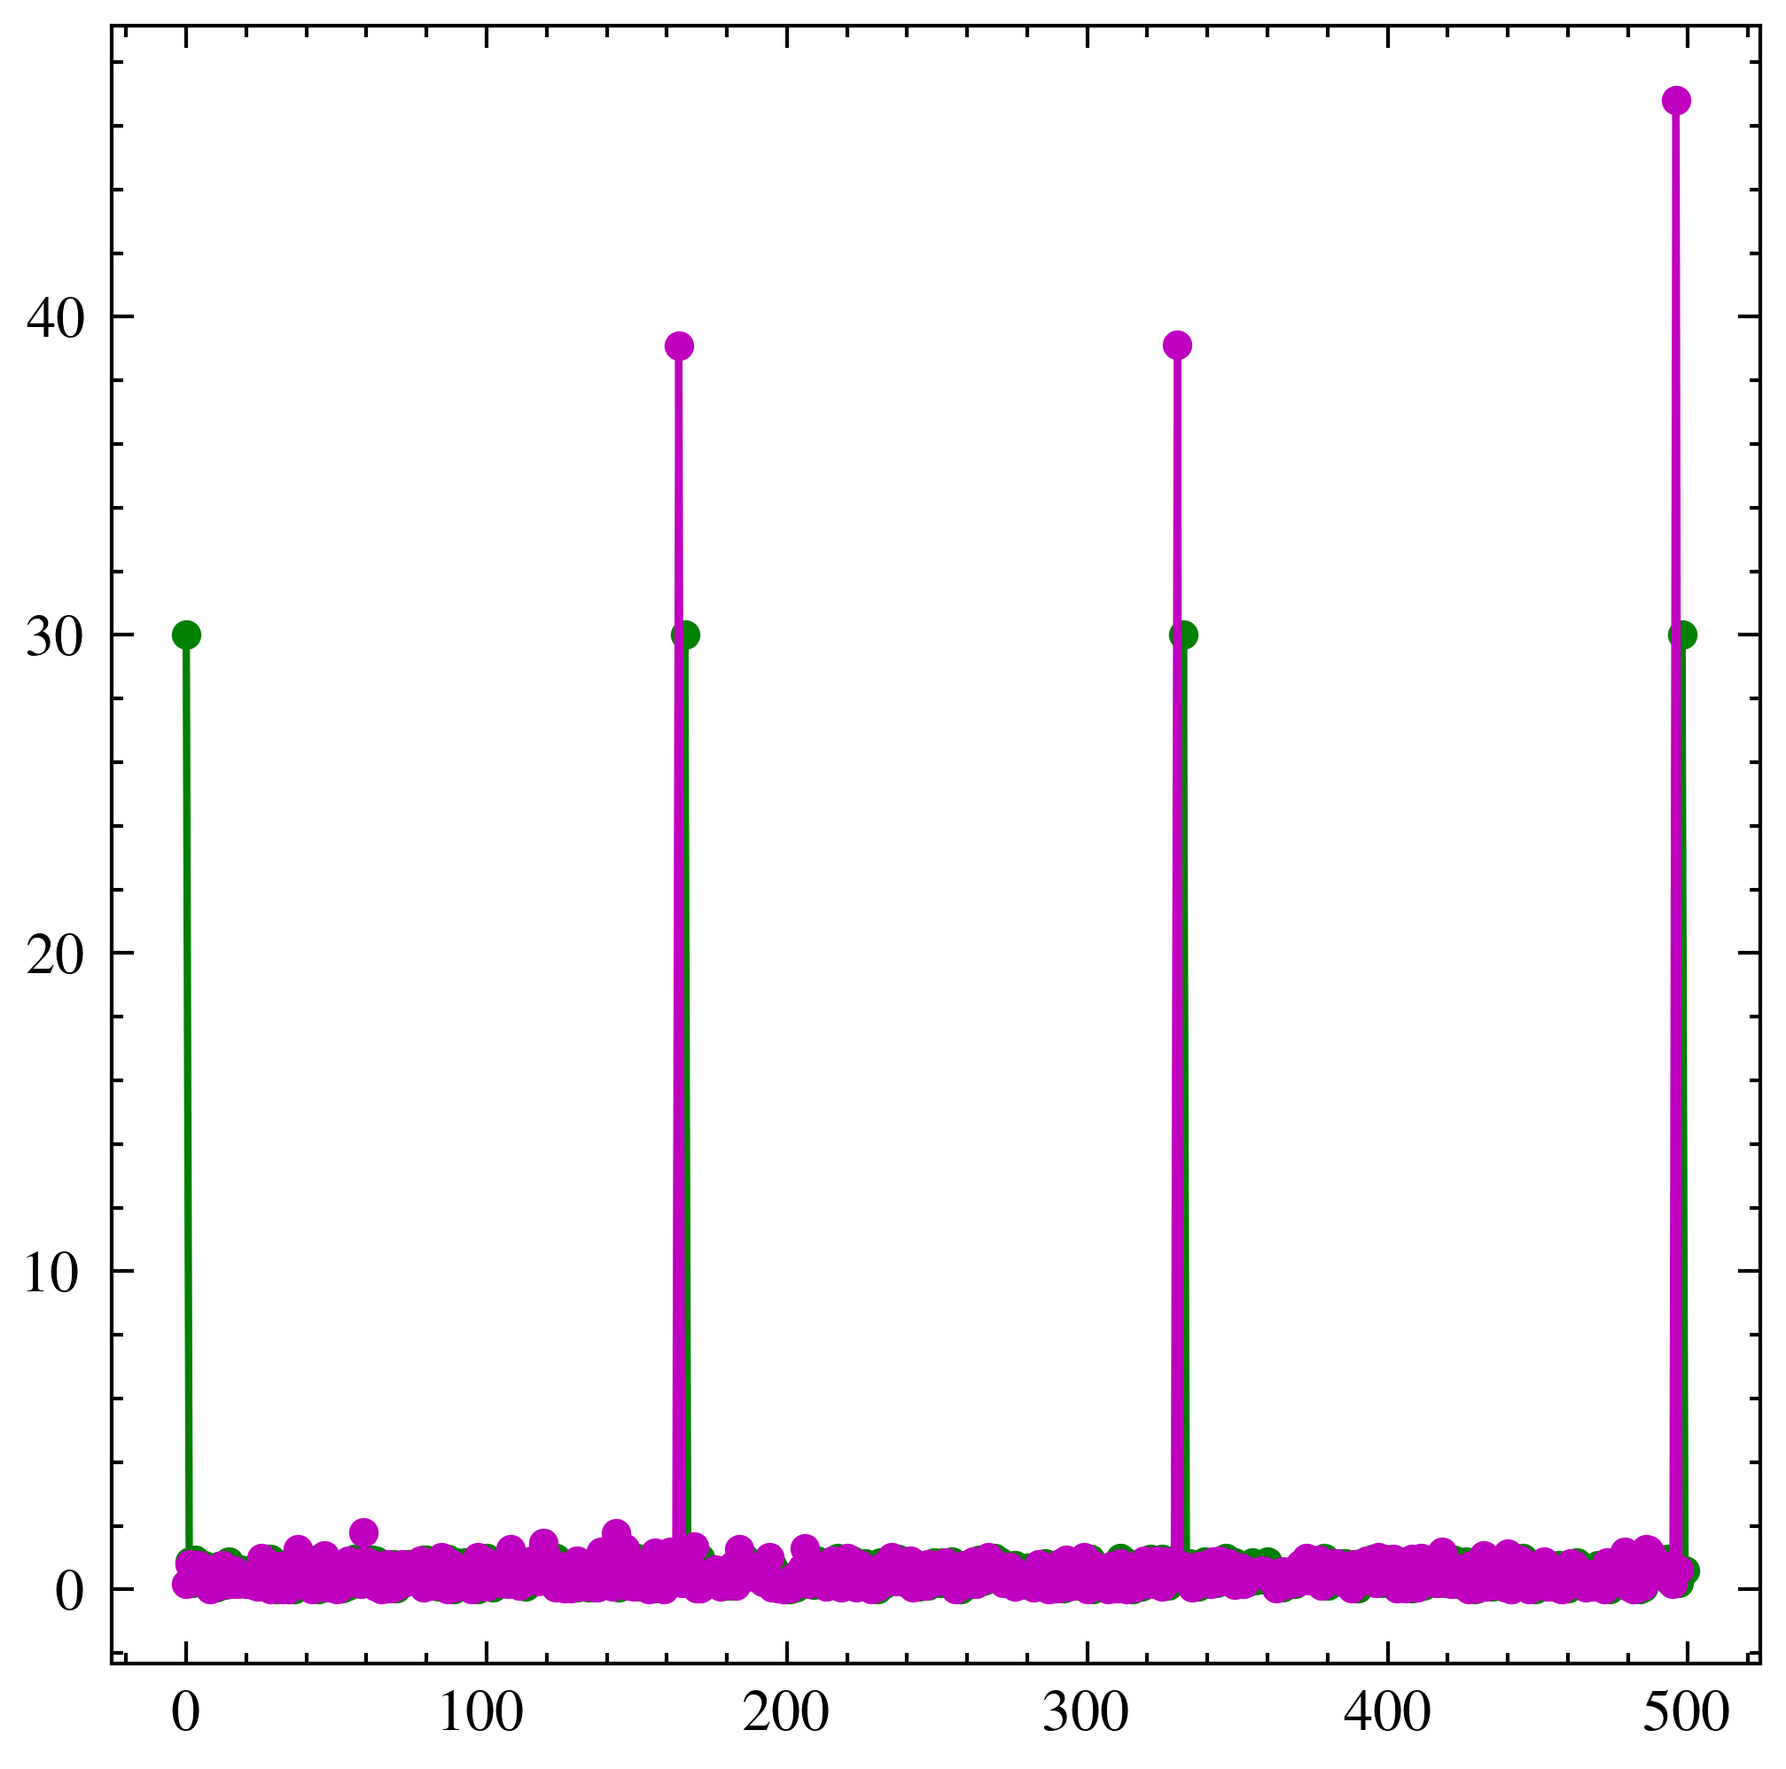
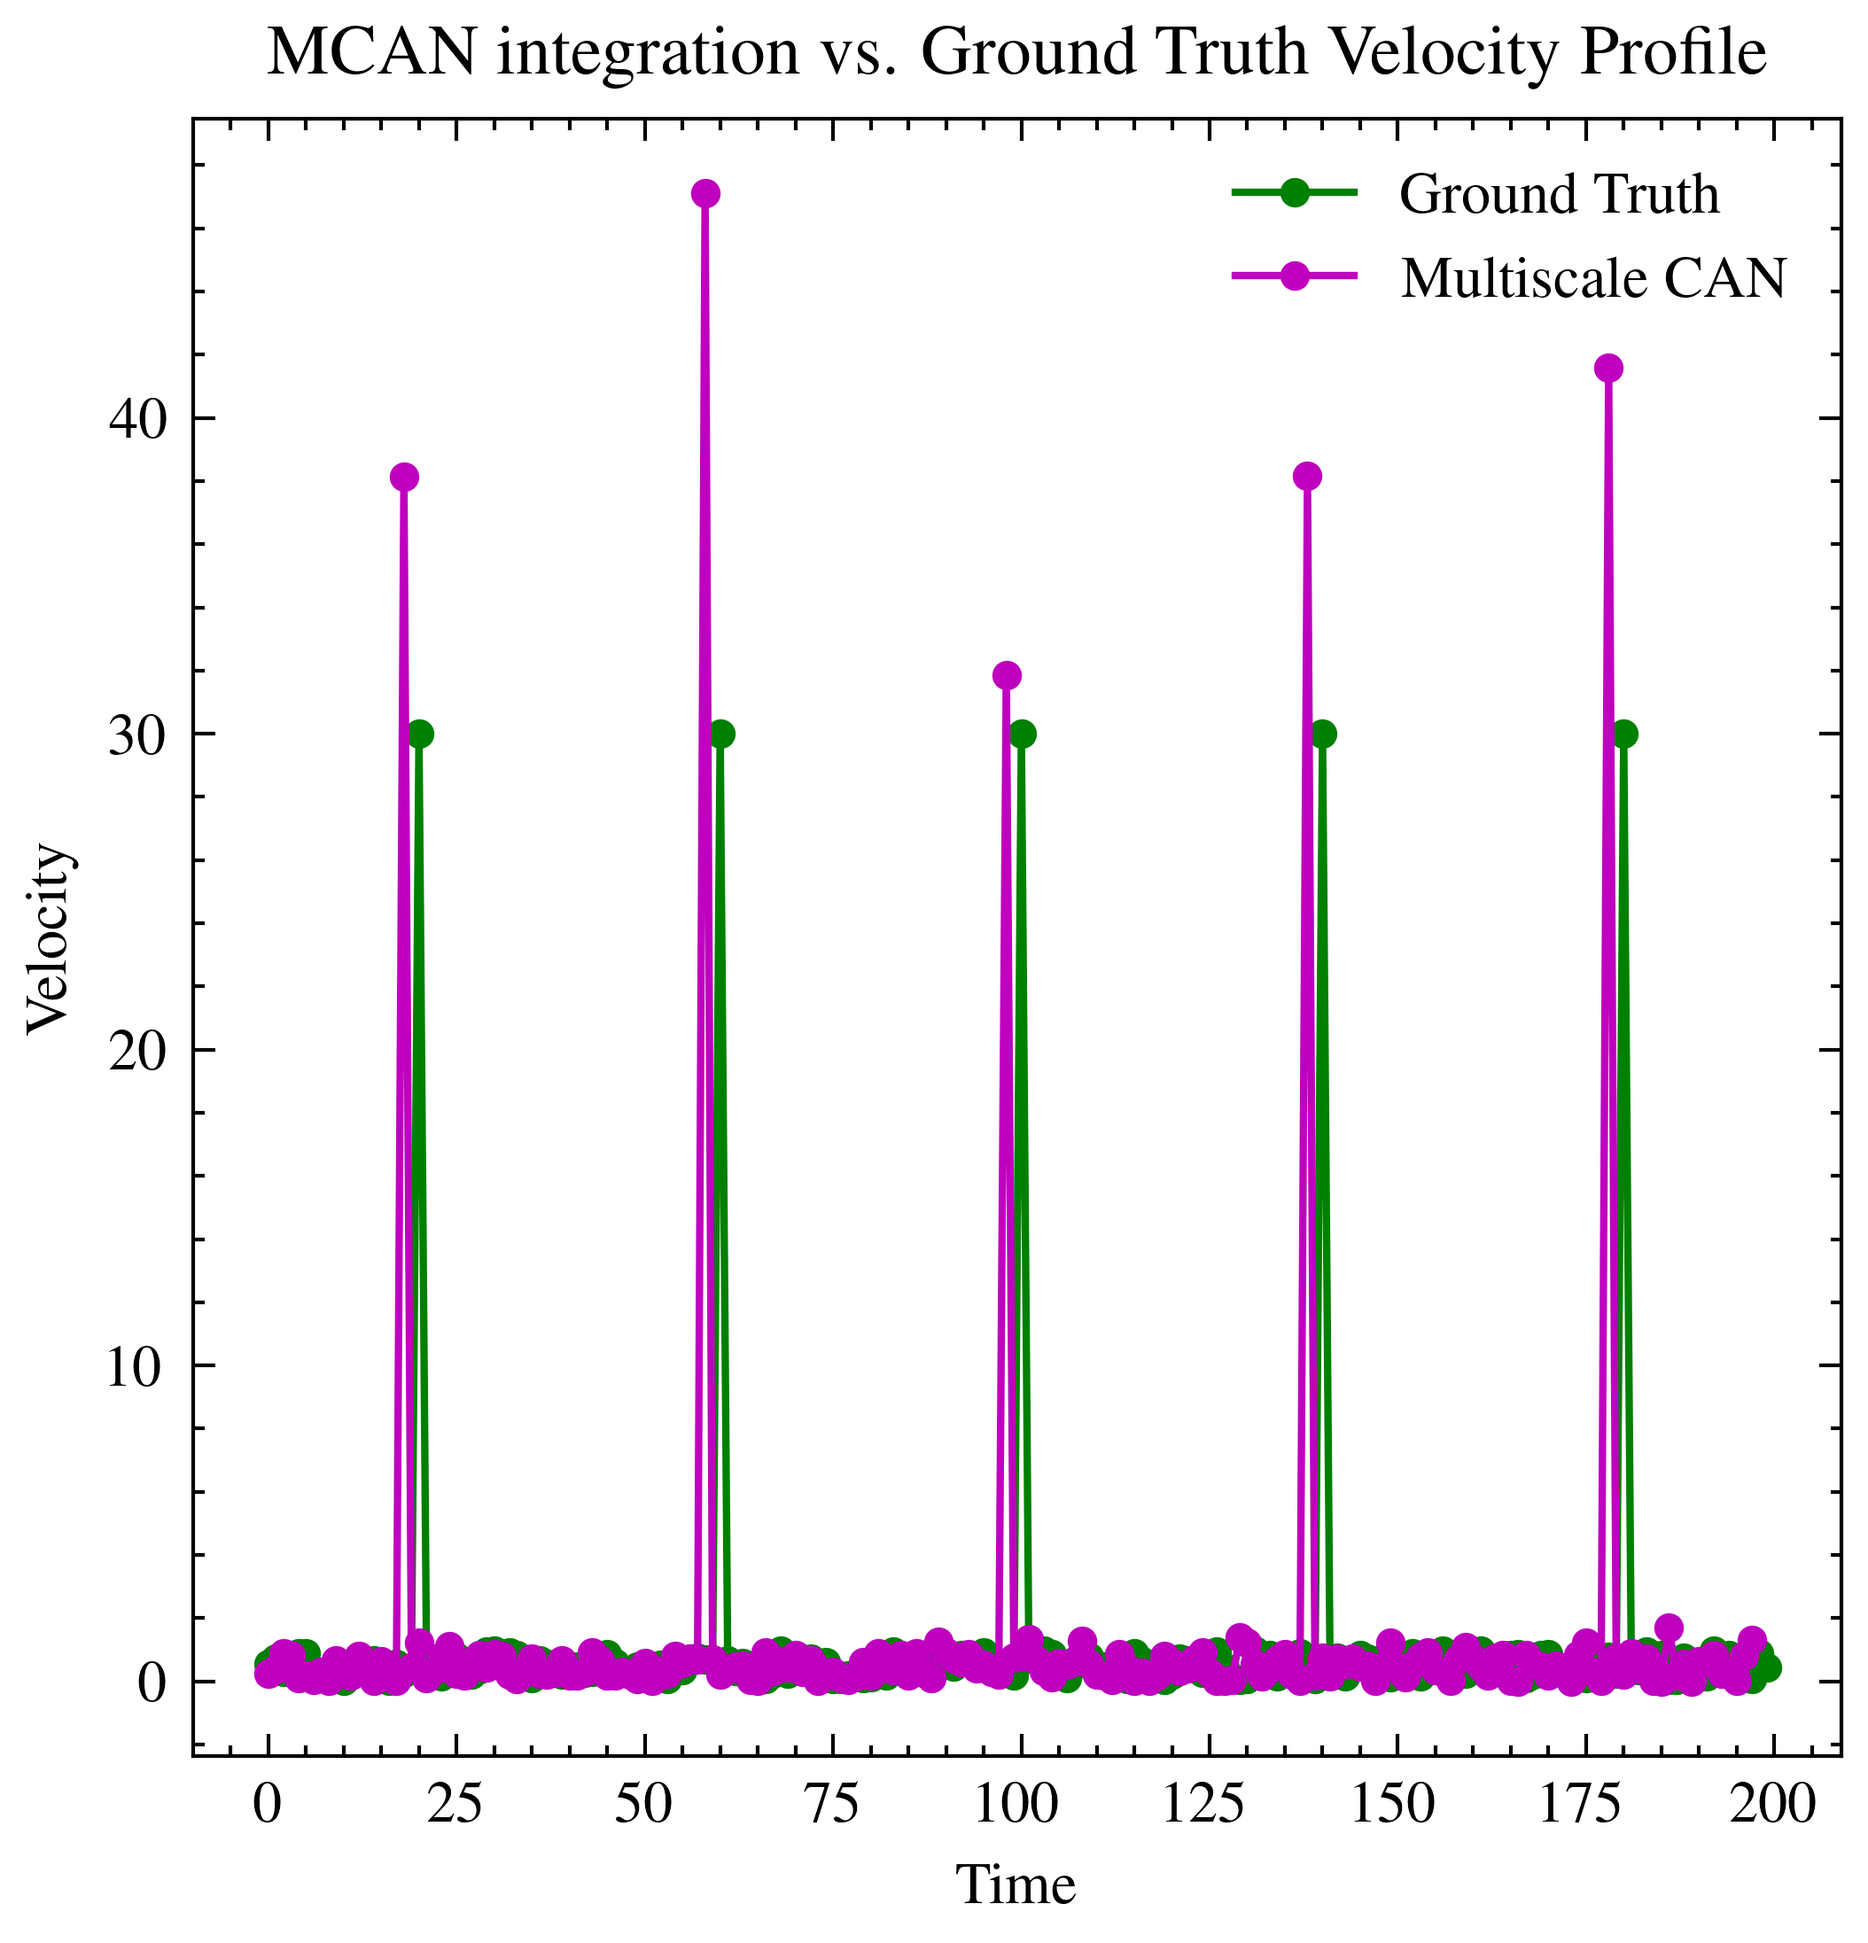
some testing

diff --git a/Scripts/SelectiveMultiScalewithWraparound2D.py b/Scripts/SelectiveMultiScalewithWraparound2D.py
@@ -26,6 +26,20 @@ plt.style.use(['science','ieee'])
 # plt.style.use(['science','no-latex'])
 
 
+def positionToVel2D(data_x,data_y):
+    vel,angVel=[],[]
+    for i in range(0,len(data_x)):
+        x0=data_x[i-2]
+        x1=data_x[i-1]
+        x2=data_x[i]
+        y0=data_y[i-2]
+        y1=data_y[i-1]
+        y2=data_y[i]
+
+        vel.append(np.sqrt(((x2-x1)**2)+((y2-y1)**2))) #translation
+        angVel.append((math.atan2(y2-y1,x2-x1)) - (math.atan2(y1-y0,x1-x0))) 
+    
+    return np.array(vel),np.array(angVel)
 
 def pathIntegration(speed, angVel):
     q=[0,0,0]
@@ -64,11 +78,14 @@ def scale_selection(input,scales, swap_val=1):
         if input<=scales[0]*swap_val:
             scale_idx=0
 
-        for i in range(len(scales)-2):
+        for i in range(len(scales)-1):
             if input>scales[i]*swap_val and input<=scales[i+1]*swap_val:
                 scale_idx=i+1
         
-        if input>scales[-2]*swap_val:
+        # if input>scales[-2]*swap_val:
+        #     scale_idx=len(scales)-1
+        
+        if input>scales[-1]*swap_val:
             scale_idx=len(scales)-1
 
     return scale_idx
@@ -77,7 +94,7 @@ def headDirection(theta_weights, angVel, init_angle):
     global theata_called_iters
     N=360
     # num_links,excite,activity_mag,inhibit_scale, iterations=16, 17, 2.16818183,  0.0281834545, 2
-    num_links,excite,activity_mag,inhibit_scale, iterations=16, 17, 2.16818183,  0.0381834545, 2
+    # num_links,excite,activity_mag,inhibit_scale, iterations=16, 17, 2.16818183,  0.0381834545, 2
     num_links,excite,activity_mag,inhibit_scale, iterations=13,4,2.70983783e+00,4.84668851e-02,2
     net=attractorNetwork(N,num_links,excite, activity_mag,inhibit_scale)
     
@@ -135,7 +152,7 @@ def headDirectionAndPlaceNoWrapNet(scales, vel, angVel,savePath, printing=False,
      
     else:
         num_links,excite,activity_mag,inhibit_scale, iterations, wrap_iterations=10,2,1.10262708e-01,6.51431074e-04,3,2 #with decimals 200 iters fitness -395 modified
-
+        # num_links,excite,activity_mag,inhibit_scale, iterations, wrap_iterations=11,8,5.09182735e-01,2.78709739e-04,5,2
     network=attractorNetwork2D(N,N,num_links,excite, activity_mag,inhibit_scale)
 
     
@@ -170,20 +187,6 @@ def headDirectionAndPlaceNoWrapNet(scales, vel, angVel,savePath, printing=False,
         x_integ.append(q[0])
         y_integ.append(q[1])
 
-        '''Dynamic network tuning'''
-        # swap_val=5
-        # if vel[i]<=scales[0]*swap_val:
-        #     num_links,excite,activity_mag,inhibit_scale, iterations, wrap_iterations=3,5,0.015,0.000865888565,1,1 #0.25 scale input, np.random.uniform(0,1,1) error
-        #     network=attractorNetwork2D(N,N,num_links,excite, activity_mag,inhibit_scale)
-        # elif vel[i]>scales[0]*swap_val and vel[i]<=scales[1]*swap_val:
-        #     num_links,excite,activity_mag,inhibit_scale, iterations, wrap_iterations=3,5,0.04,0.000865888565,1,1 #1 scale input, np.random.uniform(1,2,1) error
-        #     network=attractorNetwork2D(N,N,num_links,excite, activity_mag,inhibit_scale)
-        # elif vel[i]>scales[1]*swap_val and vel[i]<=scales[2]*swap_val:
-        #     num_links,excite,activity_mag,inhibit_scale, iterations, wrap_iterations=3,5,0.05,0.000665888565,1,1 #4 scale input, np.random.uniform(2,10,1) error
-        #     network=attractorNetwork2D(N,N,num_links,excite, activity_mag,inhibit_scale)
-        # elif vel[i]>scales[2]*swap_val:
-        #     num_links,excite,activity_mag,inhibit_scale, iterations, wrap_iterations=3,5,0.05,0.000565888565,1,1 #16 scale input, np.random.uniform(10,20,1) error
-        #     network=attractorNetwork2D(N,N,num_links,excite, activity_mag,inhibit_scale)   
 
         '''Mutliscale CAN update'''
         N_dir=360
@@ -218,7 +221,7 @@ def headDirectionAndPlaceNoWrapNet(scales, vel, angVel,savePath, printing=False,
     if savePath != None:
         np.save(savePath, np.array([x_grid, y_grid, x_integ, y_integ, x_integ_err, y_integ_err]))
     
-    # print(f'CAN error: {errorTwoCoordinateLists(x_integ,y_integ, x_grid, y_grid)}') 
+    print(f'CAN error: {errorTwoCoordinateLists(x_integ,y_integ, x_grid, y_grid)}') 
         
     
 
@@ -681,10 +684,10 @@ def scaleAblation(scaleRatios,numScales,randomSeedVariation=5, run=False, plotti
     # pathfile=f'./Results/RandomData/Ablation_Experiment_Output_SmallerVelRange/TestingRandomInputs_'
     # plotPath=f'./Results/RandomData/AblationofScales_ErrorsandDurations_SmallerVelRange.png'
 
-    savePath1=f'./Results/RandomData/Ablation_Experiment_Output_FineGrain/AblationOfScalesErrors_smallerRange.npy'
-    savePath2=f'./Results/RandomData/Ablation_Experiment_Output_FineGrain/AblationOfScalesDurations_smallerRange.npy'
-    pathfile=f'./Results/RandomData/Ablation_Experiment_Output_FineGrain/TestingRandomInputs_'
-    plotPath=f'./Results/RandomData/AblationofScales_ErrorsandDurations_FineGrain_SmallerVelRange.png'
+    savePath1=f'./Results/RandomData/Ablation_Experiment_Output_FineGrain/AblationOfScalesErrors_smallerRange2.npy'
+    savePath2=f'./Results/RandomData/Ablation_Experiment_Output_FineGrain/AblationOfScalesDurations_smallerRange2.npy'
+    pathfile=f'./Results/RandomData/Ablation_Experiment_Output_FineGrain/TestingRandomInputs2_'
+    plotPath=f'./Results/RandomData/Ablation_Experiment_Output_FineGrain/AblationofScales_ErrorsandDurations_FineGrain_SmallerVelRange2.png'
 
     if run==True:
         errors=np.zeros((len(scaleRatios),len(numScales)))
@@ -693,13 +696,19 @@ def scaleAblation(scaleRatios,numScales,randomSeedVariation=5, run=False, plotti
             for j,length in enumerate(numScales):
                 test_length=50
                 np.random.seed(randomSeedVariation)
-                vel=np.random.uniform(0,5,test_length) 
+                vel=np.random.uniform(0,2,test_length) 
                 angVel=np.random.uniform(0,np.pi/6,test_length)
                 scales=generatinScales(ratio, length)
                 
-                t=time.time()
-                errors[i,j]=headDirectionAndPlaceNoWrapNet(scales, vel, angVel,None, printing=False, returnTypes='Error')
-                durations[i,j]=(time.time()-t)
+                # t=time.time()
+                # errors[i,j]=headDirectionAndPlaceNoWrapNet(scales, vel, angVel,None, printing=False, returnTypes='Error')
+                # durations[i,j]=(time.time()-t)
+
+                x_integ,y_integ, x_grid, y_grid=headDirectionAndPlaceNoWrapNet(scales, vel, angVel,None, returnTypes='posInteg+CAN')
+                vel_CANoutput,angVel_CANoutput=positionToVel2D(x_grid,y_grid)
+                vel_GT,angVel_GT=positionToVel2D(x_integ,y_integ)
+                errors[i,j]=np.sum(abs(vel_CANoutput-vel_GT))
+
                 print(f'Finished ratio {ratio} and length {length}')
 
         np.save(savePath1,errors)
@@ -709,7 +718,7 @@ def scaleAblation(scaleRatios,numScales,randomSeedVariation=5, run=False, plotti
         errors=np.load(savePath1)
         durations=np.load(savePath2)
 
-        fig, ax0=plt.subplots(figsize=(10, 7), ncols=1)
+        fig, ax0=plt.subplots(figsize=(5, 4), ncols=1)
         
         pos= ax0.imshow(errors)
         plt.colorbar(pos,ax=ax0)
@@ -729,51 +738,54 @@ def scaleAblation(scaleRatios,numScales,randomSeedVariation=5, run=False, plotti
 
         plt.savefig(plotPath)
 
-# scaleRatios,numScales=[1,2,3,4,5],[1,2,3,4,5]
+# scaleRatios,numScales=[1, 1.5, 2, 2.5, 3, 3.5, 4],[1,2,3,4,5]
 # scaleAblation(scaleRatios,numScales, run=True, plotting=True)
 
 '''Response to Velocity Spikes'''
-def positionToVel2D(data_x,data_y):
-    vel,angVel=[],[]
-    for i in range(1,len(data_x)):
-        x0=data_x[i-2]
-        x1=data_x[i-1]
-        x2=data_x[i]
-        y0=data_y[i-2]
-        y1=data_y[i-1]
-        y2=data_y[i]
-
-        vel.append(np.sqrt(((x2-x1)**2)+((y2-y1)**2))) #translation
-        angVel.append((math.atan2(y2-y1,x2-x1)) - (math.atan2(y1-y0,x1-x0))) 
-    
-    return vel,angVel
-
-
 def resposneToVelSpikes(randomSeedVariation=5,run=False,plotting=False):
     savePath=f'./Results/RandomData/VelSpikes_Experiment_Output/Integrated+CAN_velsWithSpikes.npy'
-    plotPath=f'./Results/RandomData/Integrated+CAN_velsWithSpikes.png'
+    savePath2=f'./Results/RandomData/VelSpikes_Experiment_Output/CANoutput_velsWithSpikes.npy'
+    plotPath=f'./Results/RandomData/MCAN_path_kidnappedAgent_1uni_Tun0.png'
     if run==True:
         test_length=100
         np.random.seed(randomSeedVariation)
         vel=np.random.uniform(0,1,test_length) 
-        for i in range(0,test_length,test_length//3):
-            vel[i-2]=5
-            vel[i-1]=10
-            vel[i]=20
-        angVel=np.random.uniform(0,np.pi/6,test_length)
+        # for i in range(20,test_length,test_length//3):
+        #     vel[i-3]=5
+        #     vel[i-2]=10
+        #     vel[i-1]=15
+        #     vel[i]=20
+        vel[test_length-10:]=np.random.uniform(10,12,10) 
+        angVel=np.random.uniform(-np.pi/6,np.pi/6,test_length)
         scales=[0.25,1,4,16]
         
 
-        x_integ,y_integ, x_grid, y_grid=headDirectionAndPlaceNoWrapNet(scales, vel, angVel,None, returnTypes='posInteg+CAN')
+        x_integ,y_integ, x_grid, y_grid=headDirectionAndPlaceNoWrapNet(scales, vel, angVel,savePath2, returnTypes='posInteg+CAN')
         vel_CANoutput,angVel_CANoutput=positionToVel2D(x_grid,y_grid)
-        np.save(savePath,np.array([vel,vel_CANoutput]))
+
+        # np.save(savePath,np.array([vel,vel_CANoutput]))
     
-    if plotting==True:
+    if plotting=='Vel':
         vel,vel_CANoutput=np.load(savePath, allow_pickle=True)
         fig, ax0=plt.subplots(figsize=(4, 4), ncols=1)
-        ax0.plot(vel,'g.-')
-        ax0.plot(vel_CANoutput,'m.-')
-        # plt.savefig(plotPath)
-        plt.show()
+        l2=ax0.plot(vel,'g.-')
+        l3=ax0.plot(vel_CANoutput,'m.-')
+        ax0.legend(('Ground Truth', 'Multiscale CAN'))
+        ax0.set_title('MCAN integration vs. Ground Truth Velocity Profile ')
+        ax0.set_ylabel('Velocity')
+        ax0.set_xlabel('Time')
+        plt.savefig(plotPath)
+        # plt.show()
+    
+    if plotting=='Position':
+        x_grid,y_grid,x_integ, y_integ,x_integ_err, y_integ_err = np.load(savePath2)
+        fig, ax0=plt.subplots(figsize=(4, 4), ncols=1)
+        l2=ax0.plot(x_integ, y_integ,'g.-')
+        l3=ax0.plot(x_grid,y_grid,'m.-')
+        ax0.legend(('Ground Truth', 'Multiscale CAN'))
+        ax0.set_title('MCAN Path for Velocity with Spikes ')
+        ax0.set_ylabel('y[m]')
+        ax0.set_xlabel('x[m]')
+        plt.savefig(plotPath)
 
-# resposneToVelSpikes(randomSeedVariation=5,run=True,plotting=True)
+resposneToVelSpikes(randomSeedVariation=7,run=True,plotting='Position')

diff --git a/Scripts/SimpleGA_multiscale_dynamics.py b/Scripts/SimpleGA_multiscale_dynamics.py
@@ -443,7 +443,7 @@ def runGA1D(run=False, plotting=False):
 
 if __name__ == '__main__':
     freeze_support()
-    runGA1D(run= True, plotting=True)
+    runGA1D(run= False, plotting=True)
 
 
 # filename=f'../results/GA_MultiScale/headDirection_randomInput.npy'
